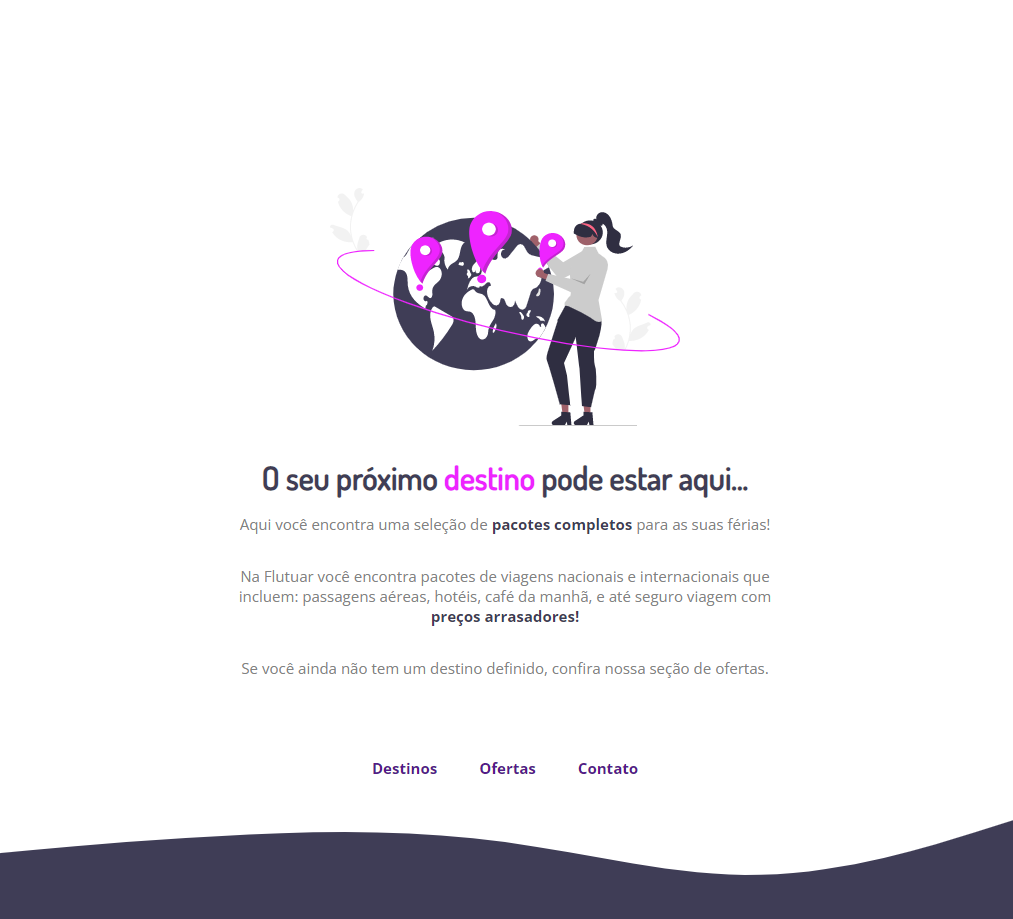
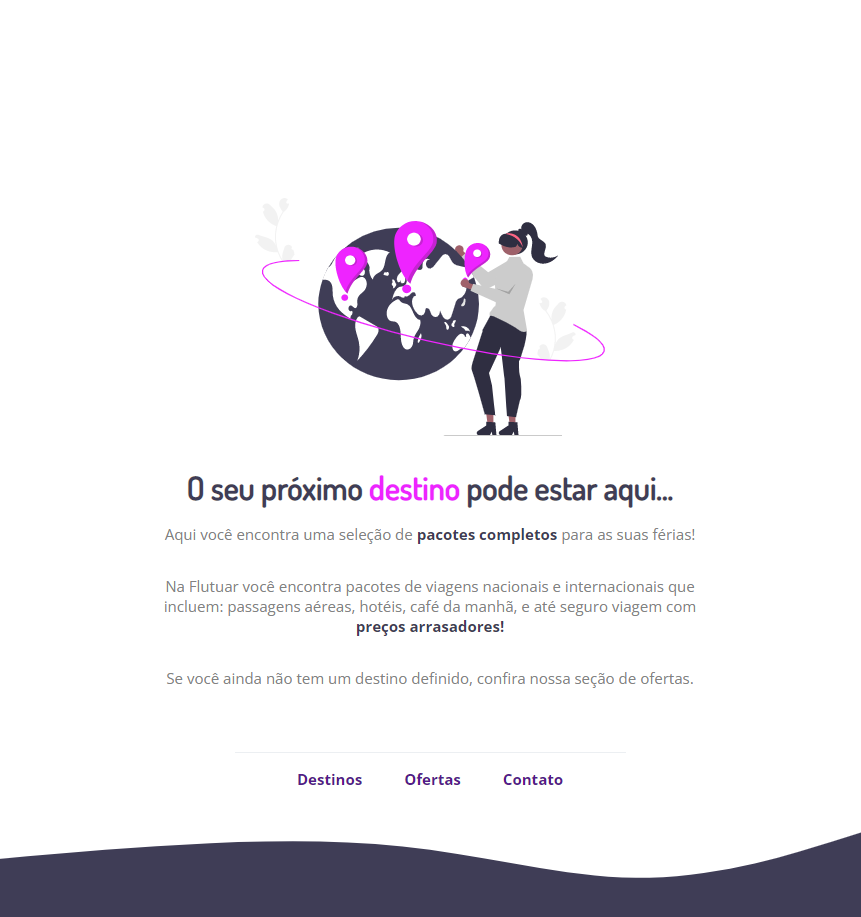
Border-top incluso no menu do footer

diff --git a/public/styles/style.css b/public/styles/style.css
@@ -78,8 +78,9 @@ nav{
     display: flex;
     justify-content: center;
     gap: 42px;
-    margin-top: 16px;
-    margin-bottom: 40.83px;   
+    padding-top: 16px;
+    margin-bottom: 40.83px;
+    border-top: 1px solid #ECEFF2;  
 }
 
 nav a {
